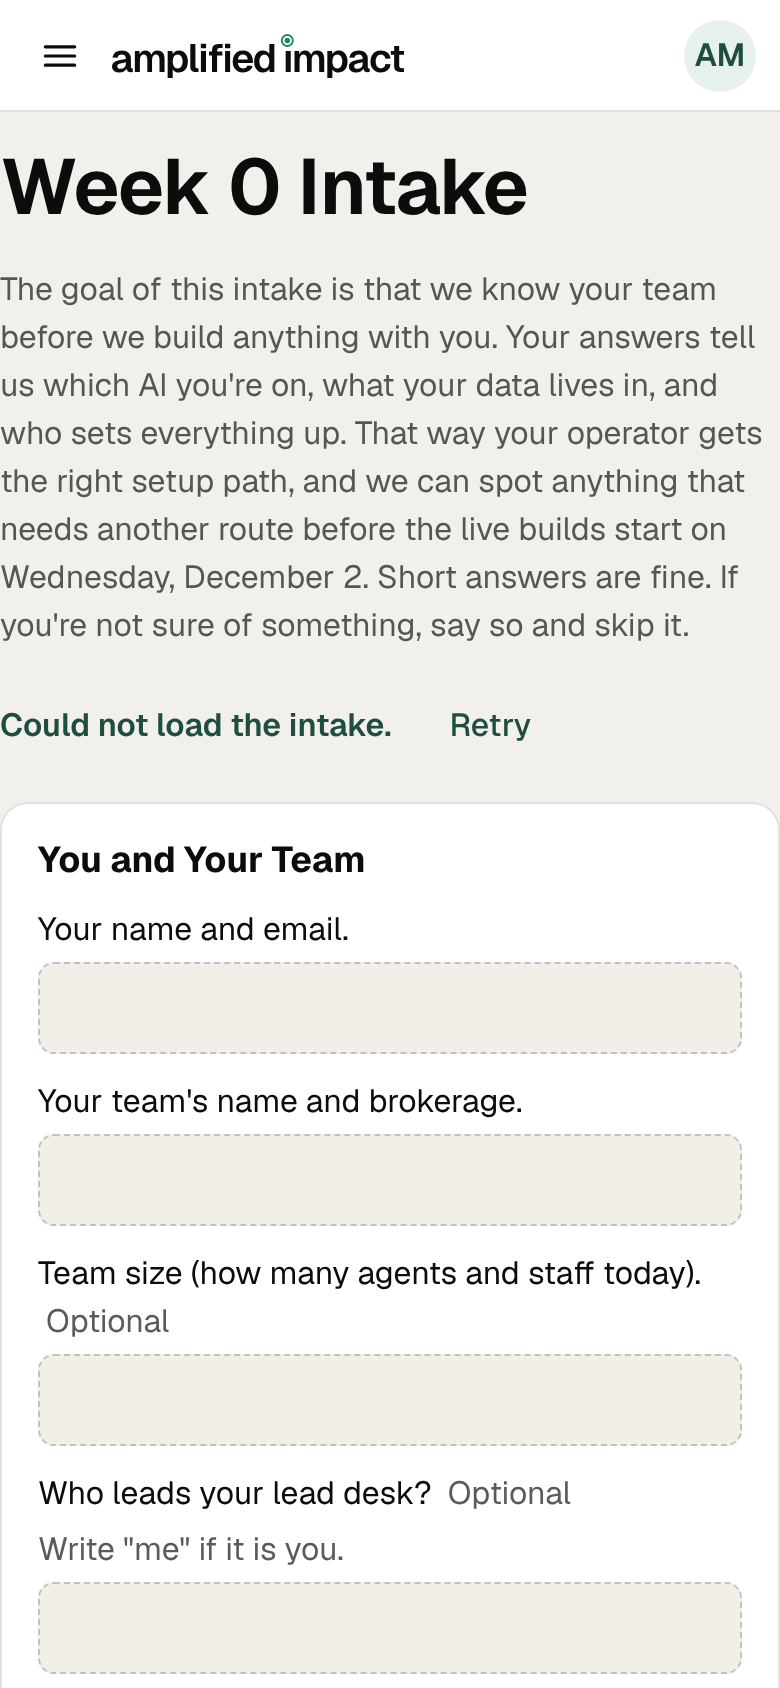
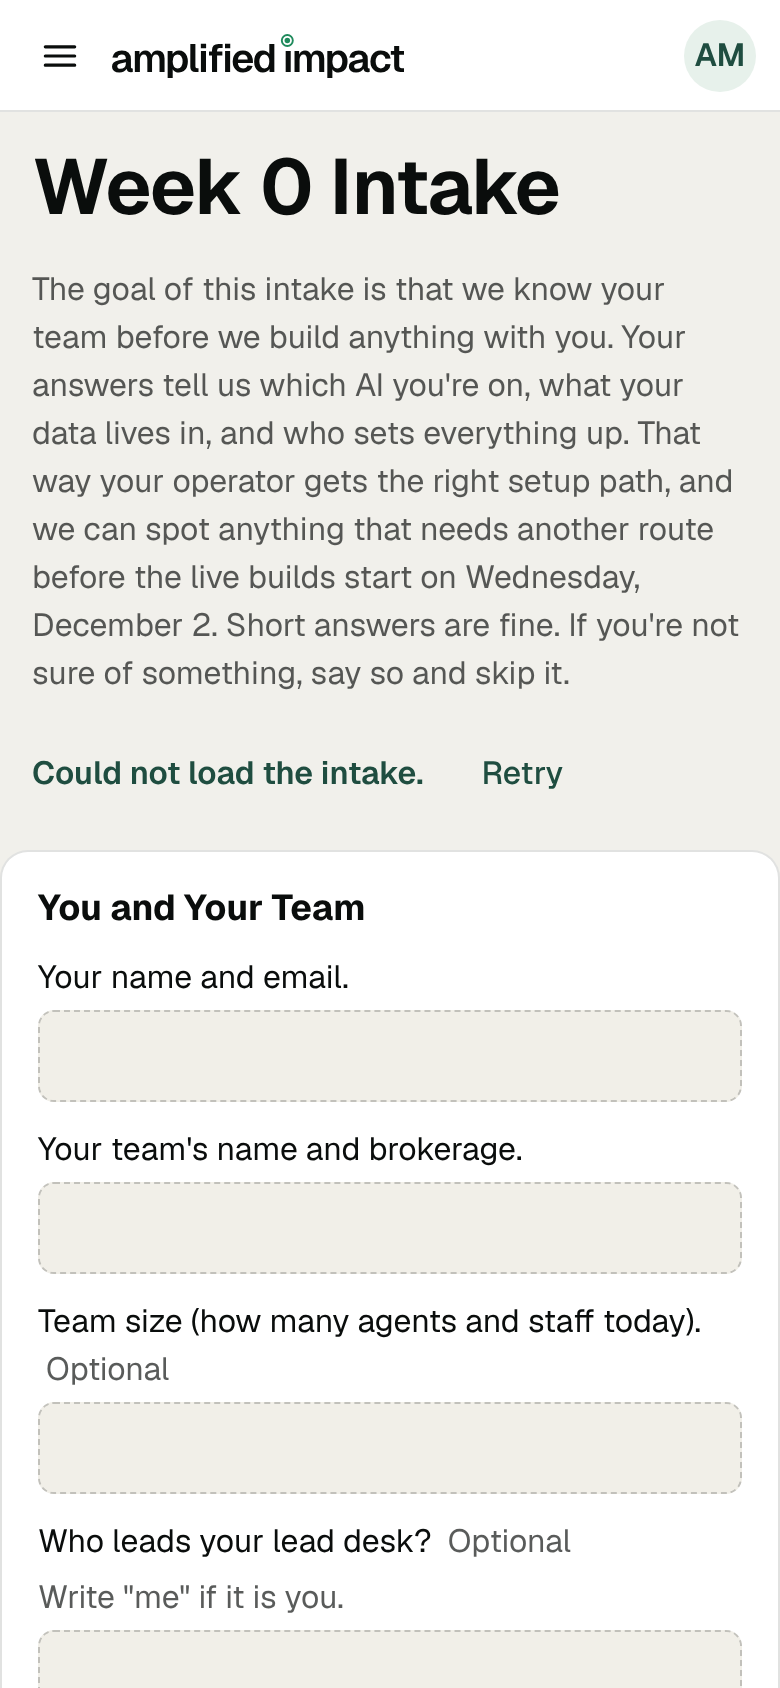
Give the intake page a side gutter on phones
At 390 the intake page's Back link, title, intro and its new messages (the
missing answers, a failed load, a teammate's clash) ran to the screen's left
edge (audit M-3) while the question cards' text sat 16px in. At 767px and
under the page now takes the page gutter (`--r2-pad`, 16px) and the cards'
group steps back out by the same amount, so the cards keep their width;
768px and up are unchanged. The four 390 screenshots are retaken; a test
holds the rule and the screenshot script measured 16px on every line.

Claude-Session: https://claude.ai/code/session_01JTpLsTtbQBaYhCYDbgiUYj

diff --git a/apps/web/src/routes/learn/Intake.test.tsx b/apps/web/src/routes/learn/Intake.test.tsx
@@ -1,6 +1,7 @@
 // D-196: an autosave shows the time in Mountain Time. D-247: H-10 (editable only once loaded; a save sends only what
 // changed; a teammate's clash keeps what was typed and says to reload) and H-11 (optional questions say so; a submit
 // with a required answer missing names them, marks each and moves to the first).
+import { readFileSync } from 'node:fs';
 import { act, fireEvent, render, screen, waitFor } from '@testing-library/react';
 import { MemoryRouter } from 'react-router';
 import { setViewerZone } from '@ai/core';
@@ -254,5 +255,14 @@ describe('Download Your Answers (PDF) on the intake page (D-246)', () => {
     fireEvent.click(await screen.findByRole('button', { name: 'Submit' }));
     expect(await screen.findByText(/^Submitted /)).toBeInTheDocument();
     expect(screen.queryByRole('button', { name: 'Download Your Answers (PDF)' })).toBeNull();
+  });
+});
+
+describe('the page’s side gutter on a phone (audit M-3, D-247)', () => {
+  it('gives everything outside the question cards the page gutter at 767px and under, and leaves wider screens alone', () => {
+    const css = readFileSync('src/routes/learn/Intake.module.css', 'utf8').replace(/\/\*[\s\S]*?\*\//g, '');
+    expect(css).toMatch(/@media \(max-width: 767px\) \{\s*\.page \{\s*padding-inline: var\(--r2-pad\);\s*\}\s*\.lock \{\s*margin-inline: calc\(var\(--r2-pad\) \* -1\);\s*\}\s*\}/);
+    // Nothing else sets a side gutter, so 768px and up are as they were.
+    expect(css.match(/padding-inline|margin-inline/g)).toHaveLength(2);
   });
 });

diff --git a/apps/web/src/routes/learn/Intake.module.css b/apps/web/src/routes/learn/Intake.module.css
@@ -148,3 +148,15 @@
   border-style: dashed;
   cursor: not-allowed;
 }
+
+/* Audit M-3 (D-247): on a phone the page runs edge to edge, so everything outside the question cards (Back, the title,
+   the intro, the saved line, the messages, Submit) takes the page's side gutter, as the cards' own text has. The cards
+   keep their width: their group steps back out by the same gutter. */
+@media (max-width: 767px) {
+  .page {
+    padding-inline: var(--r2-pad);
+  }
+  .lock {
+    margin-inline: calc(var(--r2-pad) * -1);
+  }
+}

diff --git a/DECISIONS.md b/DECISIONS.md
@@ -7649,7 +7649,7 @@ The mockup designs one week, Week 0, which is self-paced, so Weeks 1 to 8 (each 
 - **H-10, saving: merge what changed, refuse a clash (the design chosen).** A save of the team intake (`PUT /api/intake`) or the stack card (`PUT /api/stack`) sends only the answers (rows) changed since that page loaded or last saved, each with the value it last read (`{ changes, base, submit? }`, built by core's `intakeEdit` / `stackEdit`). The server writes those over what is stored and keeps everything else, so an owner and an operator editing different questions both keep theirs (`mergeIntakeEdit` / `mergeStackEdit`). A changed question whose stored answer is neither the browser's base nor its new answer was changed by someone else since: the whole save is refused, 409 `{ error, conflicts }`, and nothing is written. The per-question base values are what prove a clash, so no per-question timestamp and no migration. The read, merge and write run in one transaction under the team's own advisory lock, so two saves landing together can't both merge into the same stored answers. A page from before this change (it sends the whole form) is refused with 409, never merged. GHL sync is unchanged: a submit, and any save after one, queues the answers (D-229).
 - **H-10, loading.** Today's intake page shows no form while the answers load; a load that fails says so with Retry and every field and Submit disabled (an agent's 403 says the server's words, with no Retry). The v3 drawer is locked while it loads; a failed load says so in its foot and is asked again when the drawer opens again. The stack card page draws no rows and disables Send Back until its card loads (Retry as the intake). Saves go one at a time, each diffed against what the server holds after the one before.
 - **H-10, a clash.** The page says to copy what was typed and reload, the typed answers stay on screen read-only (so they can be copied), nothing more is sent, and Submit is disabled. Today's page moves to the message; the drawer shows it in its foot (the server's words) and locks. Seat card saves are unchanged (not in this audit item).
-- **H-11.** Today's intake page marks questions as the v3 drawer does (D-229): a question that isn't required says "Optional" after its label, so the required ones stand out; a required field is also announced as required (`aria-required`). A submit with a required answer missing (checked in the page, and the server's 422 `missing` ids for one a teammate cleared) says "Some required answers are missing." with a list linking each missing question, marks each (its border firms to ink, and under it the drawer's words "Add an answer." or "Pick one." with a dot, never colour alone; `aria-invalid`, `aria-describedby`), and moves focus to the first. Answering one clears its mark. The page's intro text is unchanged.
+- **H-11.** Today's intake page marks questions as the v3 drawer does (D-229): a question that isn't required says "Optional" after its label, so the required ones stand out; a required field is also announced as required (`aria-required`). A submit with a required answer missing (checked in the page, and the server's 422 `missing` ids for one a teammate cleared) says "Some required answers are missing." with a list linking each missing question, marks each (its border firms to ink, and under it the drawer's words "Add an answer." or "Pick one." with a dot, never colour alone; `aria-invalid`, `aria-describedby`), and moves focus to the first. Answering one clears its mark. The page's intro text is unchanged. On a phone (767px and under), everything outside the question cards (Back, the title, the intro, the saved line, the messages, Submit) takes the page's 16px side gutter (`--r2-pad`), where it ran to the screen's edge (audit M-3, on this page only); the cards keep their width, and 768px and up are unchanged.
 - **H-13.** `moduleForSession` reads the session's `moduleId` (the week the builder gave it) first; a draft week is no one's; without one, or one naming nothing, today's rule. `GET /api/course` lists a builder session under that week. So a session added in the builder (its `n` is the cohort's next number) belongs to its week everywhere the rule is read: the course, the snapshot (an Insiders or Team Plan buyer no longer gets it), Join's course check and the reminders. Every seeded session's `moduleId` is the week the old rule found, so nothing seeded moves (a core test holds it).
 - **H-14.** The scheduler's session emails ask whether a learner is in the course at the session's start while it is ahead, and at the tick once it has begun (`courseRoster`, `acceleratorRoster`, `max(now, start)`). The first live build opens the course, so its 24-hour reminder now goes out from Tue Dec 1, 12:00 PM MT and its 1-hour one from Wed Dec 2, 11:00 AM MT, to every buyer (owner and teammates) whose course opens with it; an Insiders or Team Plan buyer still gets none. `COURSE_OPENS_AT` and every other use of it are unchanged: the course, its weeks and Join still open Dec 2. A missing toggle row still reads as off.
 - **H-15.** Turn in (D-230) and the seat card's Form button (D-236) draw for every learner on a Week 1 or 2 step that asks for them, v3 or not. The step page is the same page either way (D-210) and the drawers bring their own styles, so nothing else changes; a staff preview of a learner still draws neither. Who may do what is the server's as before: the owner and the operator turn in and fill in the card (the owner signs), an agent sees "Your team’s owner or operator turns this in." and the card locked. Uploads still need the bucket's CORS to allow the browser's PUT from the app's origin (D-188). Both drawers carry M-26's kicker contrast (the package's `lms.css`, byte for byte, D-225), which this entry doesn't change.

diff --git a/docs/pr-review/launch-intake/INDEX.md b/docs/pr-review/launch-intake/INDEX.md
@@ -11,11 +11,11 @@ H-10, H-11 and H-15 at 1280 and 390, Chromium at device scale 2, reduced motion,
 | `intake-required-1280.png` | `/learn/week/0/intake` | 1280 | The first section: the two required questions with no marker, every other question "Optional" (the v3 drawer's marker, D-229) |
 | `intake-required-390.png` | The same | 390 | The same at phone width |
 | `intake-missing-1280.png` | The same, after Submit | 1280 | "Some required answers are missing." with a link to each of the six, each missing field marked (ink border, "Add an answer." with a dot), focus on the first |
-| `intake-missing-390.png` | The same | 390 | The same at phone width |
+| `intake-missing-390.png` | The same | 390 | The same at phone width; the message and its list 16px in from the edge, as the cards' text is (audit M-3) |
 | `intake-load-failed-1280.png` | The same, the load failed | 1280 | "Could not load the intake." with Retry; every field and Submit disabled, nothing to type into |
-| `intake-load-failed-390.png` | The same | 390 | The same at phone width |
+| `intake-load-failed-390.png` | The same | 390 | The same at phone width; the title, the intro and the message 16px in from the edge, as the cards' text is (audit M-3) |
 | `intake-conflict-1280.png` | The same, a teammate's clash (409) | 1280 | The server's words in view, what was typed still in the field (read-only, to copy) |
-| `intake-conflict-390.png` | The same | 390 | The same at phone width |
+| `intake-conflict-390.png` | The same | 390 | The same at phone width; the title, the intro and the message 16px in from the edge, as the cards' text is (audit M-3) |
 | `turnin-step-1280.png` | `/learn/week/1/step/4`, v3 off | 1280 | "Submit your report by Tuesday night" with its Turn in button |
 | `turnin-step-390.png` | The same | 390 | The same at phone width |
 | `turnin-drawer-1280.png` | The same, Turn in clicked | 1280 | The Turn in drawer open on the step page |
@@ -24,5 +24,7 @@ H-10, H-11 and H-15 at 1280 and 390, Chromium at device scale 2, reduced motion,
 | `seatcard-step-390.png` | The same | 390 | The same at phone width |
 | `seatcard-drawer-1280.png` | The same, the seat card opened | 1280 | The owner's seat card drawer: the card's rows, Sign the seat card, Download PDF |
 | `seatcard-drawer-390.png` | The same | 390 | The same at phone width |
+
+At 390 the screenshot script also measures that every line outside the question cards (Back, the title, the intro, the message, Submit) starts 16px in from the screen's edge, on all four intake states.
 
 **axe (wcag2a, wcag2aa)** on each state above, at both widths: no serious or critical violation on the intake page in any state, or on the step pages. With a drawer open, the one serious finding is M-26's, which this PR doesn't change: colour contrast on the drawer's kicker (`.fm-kick`) and, in the seat card drawer, its section number (`.fm-no`), the package's `lms.css` (D-225).
